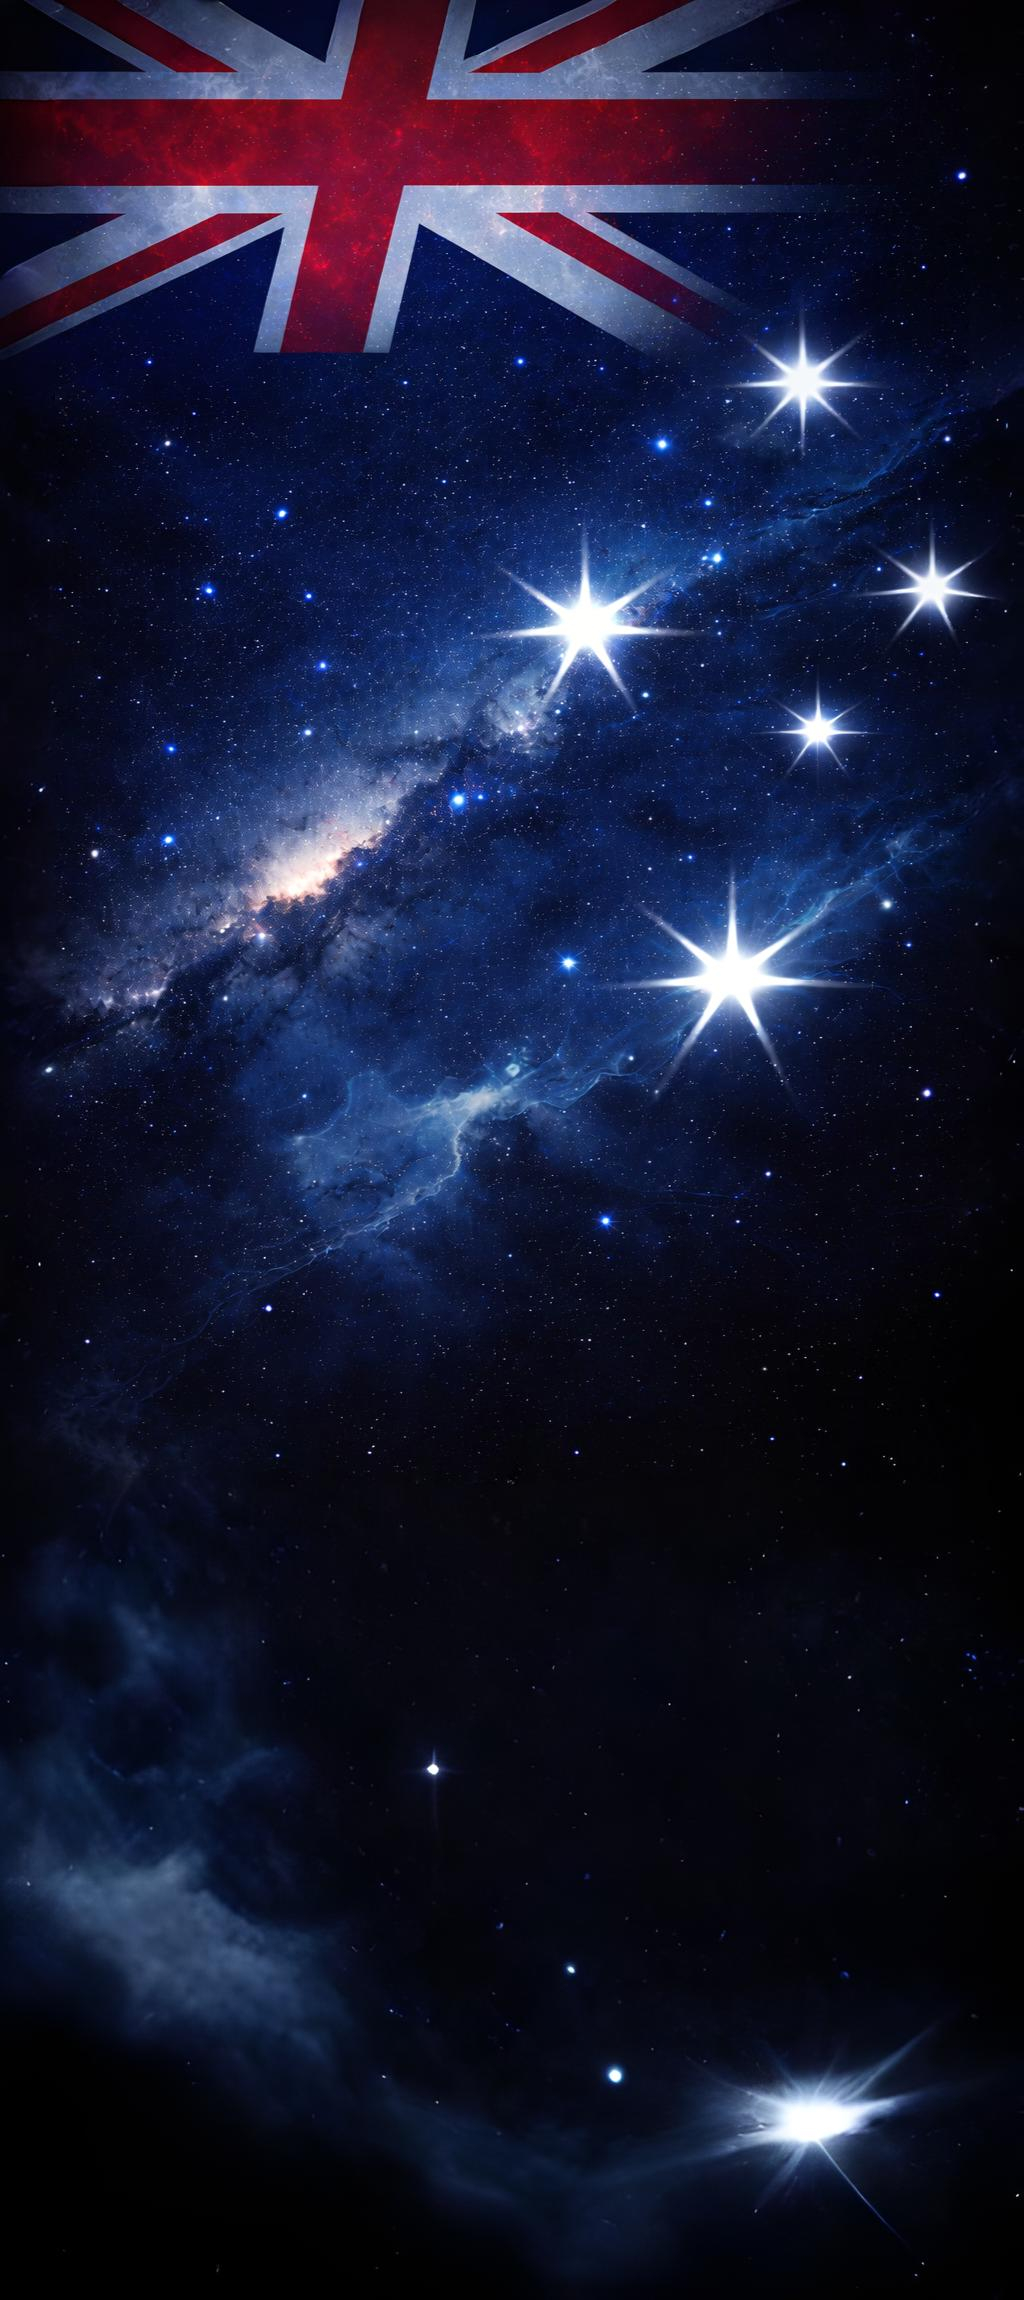
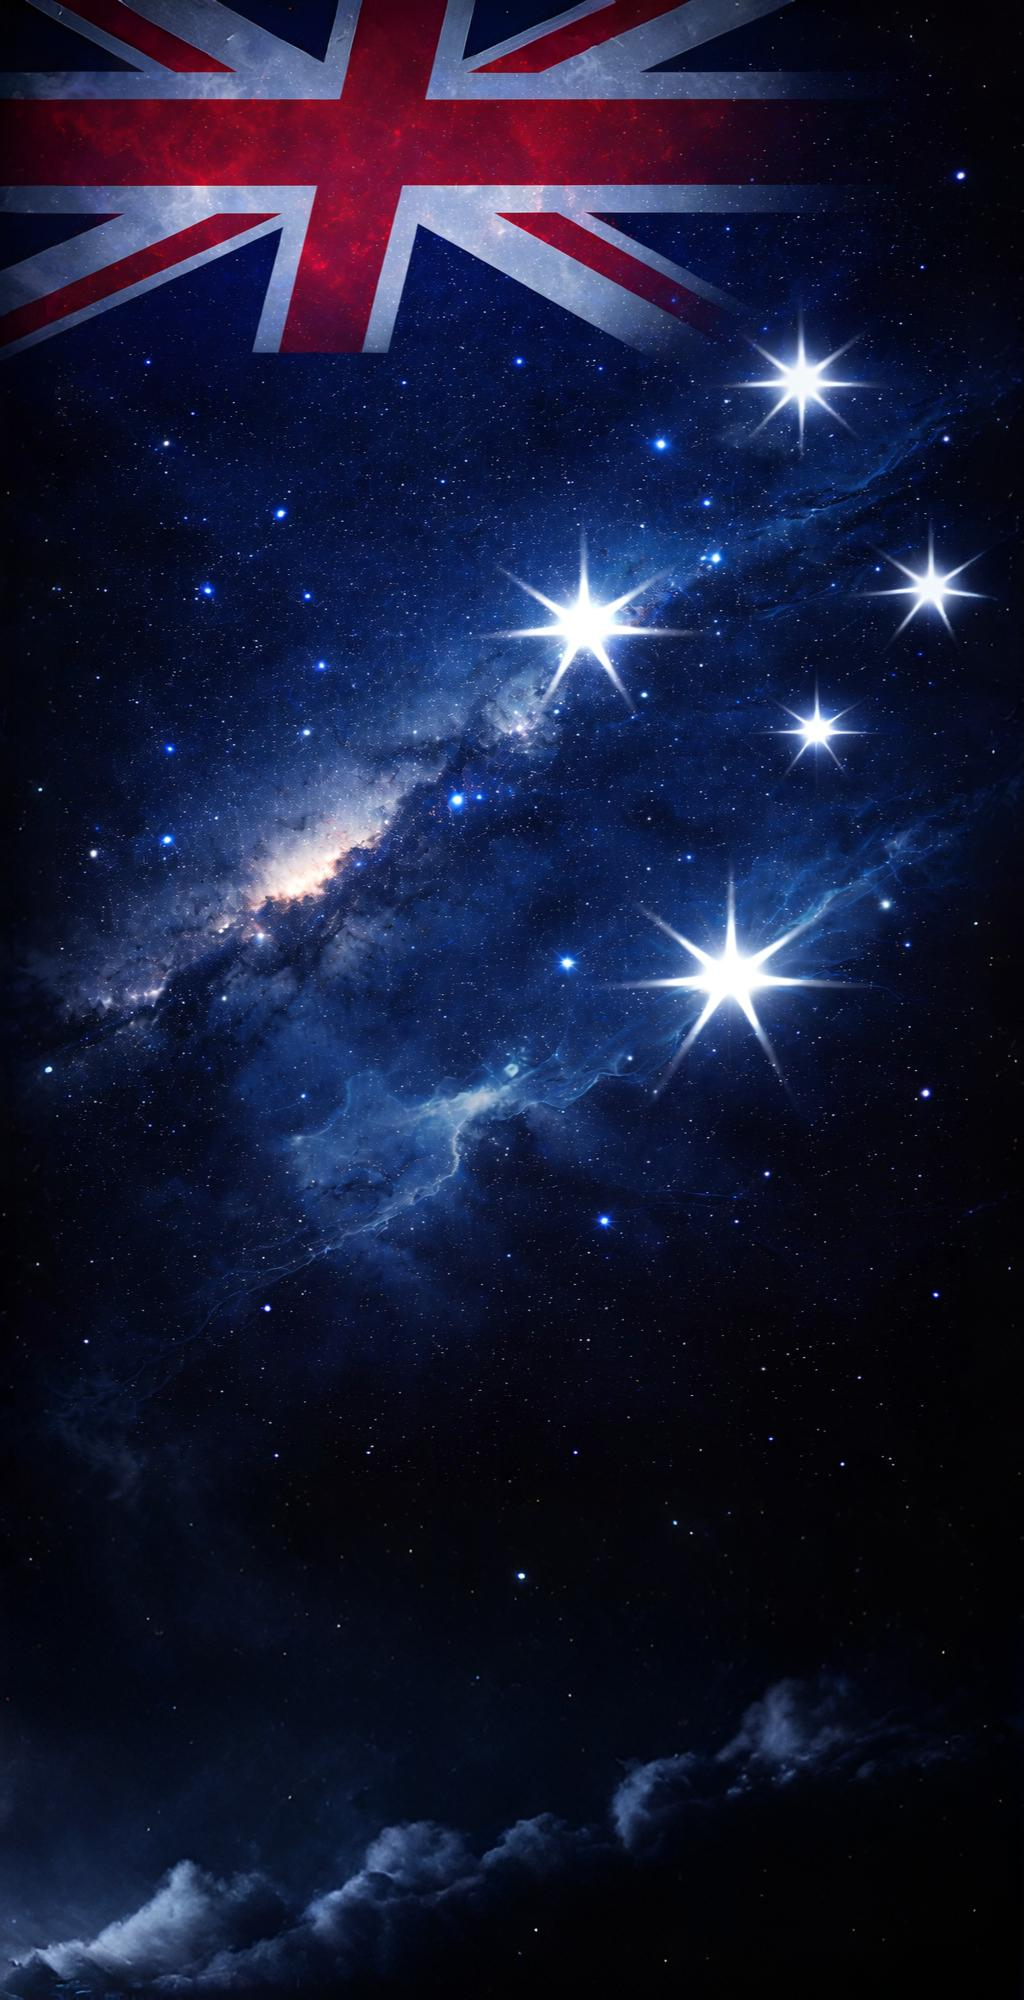
feat: bring star canvas forward over overlay with stronger twinkle

diff --git a/style.css b/style.css
@@ -27,11 +27,20 @@ body::before {
   content: "";
   position: fixed;
   inset: 0;
-  z-index: -3;
-  background-image: linear-gradient(160deg, rgba(3, 10, 27, 0.8), rgba(3, 10, 27, 0.6)), url("Branding/background.png?v=20260303-render-cache-bust");
+  z-index: -4;
+  background-image: url("Branding/background.png?v=20260303-render-cache-bust");
   background-size: cover;
   background-position: top center;
   background-repeat: no-repeat;
+}
+
+body::after {
+  content: "";
+  position: fixed;
+  inset: 0;
+  z-index: -2;
+  pointer-events: none;
+  background: linear-gradient(160deg, rgba(3, 10, 27, 0.84), rgba(3, 10, 27, 0.72));
 }
 
 #nebula-canvas {
@@ -39,7 +48,8 @@ body::before {
   inset: 0;
   width: 100%;
   height: 100%;
-  z-index: -2;
+  z-index: -1;
+  opacity: 0.82;
   pointer-events: none;
 }
 
@@ -99,10 +109,14 @@ body::before {
 
 @media (max-width: 700px) {
   body::before {
-    background-image: linear-gradient(160deg, rgba(3, 10, 27, 0.62), rgba(3, 10, 27, 0.4)), url("Branding/background-mobile.jpg?v=20260303-render-cache-bust");
+    background-image: url("Branding/background-mobile.jpg?v=20260303-render-cache-bust");
     background-position: center top;
     background-size: 100% auto;
     background-repeat: no-repeat;
+  }
+
+  body::after {
+    background: linear-gradient(160deg, rgba(3, 10, 27, 0.88), rgba(3, 10, 27, 0.76));
   }
 
   body {
@@ -114,6 +128,6 @@ body::before {
   }
 
   #nebula-canvas {
-    opacity: 0.74;
+    opacity: 0.72;
   }
 }

diff --git a/script.js b/script.js
@@ -11,6 +11,8 @@ const stars = Array.from({ length: 70 }, () => ({
   r: Math.random() * 1.7 + 0.4,
   o: Math.random() * 0.6 + 0.2,
   v: Math.random() * 0.0007 + 0.0002,
+  twinklePhase: Math.random() * Math.PI * 2,
+  twinkleSpeed: Math.random() * 0.03 + 0.012,
 }));
 
 function resizeCanvas() {
@@ -27,10 +29,15 @@ function drawStars() {
   stars.forEach((star) => {
     star.y += star.v;
     if (star.y > 1.02) star.y = -0.02;
+    star.twinklePhase += star.twinkleSpeed;
+
+    const twinkleWave = (Math.sin(star.twinklePhase) + 1) / 2;
+    const alpha = Math.min(1, star.o * (0.45 + twinkleWave * 1.7));
+    const radius = star.r * (0.8 + twinkleWave * 0.95);
 
     ctx.beginPath();
-    ctx.arc(star.x * canvas.width, star.y * canvas.height, star.r, 0, Math.PI * 2);
-    ctx.fillStyle = `rgba(183, 222, 255, ${star.o})`;
+    ctx.arc(star.x * canvas.width, star.y * canvas.height, radius, 0, Math.PI * 2);
+    ctx.fillStyle = `rgba(183, 222, 255, ${alpha.toFixed(3)})`;
     ctx.fill();
   });
 

diff --git a/index.html b/index.html
@@ -7,7 +7,7 @@
   <link rel="preconnect" href="https://fonts.googleapis.com" />
   <link rel="preconnect" href="https://fonts.gstatic.com" crossorigin />
   <link href="https://fonts.googleapis.com/css2?family=Outfit:wght@400;600;700&family=Syne:wght@700;800&display=swap" rel="stylesheet" />
-  <link rel="stylesheet" href="style.css?v=20260303-render-cache-bust" />
+  <link rel="stylesheet" href="style.css?v=20260303-stars-in-front" />
 </head>
 <body>
   <canvas id="nebula-canvas" aria-hidden="true"></canvas>
@@ -22,6 +22,6 @@
     <p id="tagline" class="tagline" aria-live="polite"></p>
   </main>
 
-  <script src="script.js?v=20260303-render-cache-bust"></script>
+  <script src="script.js?v=20260303-stars-in-front"></script>
 </body>
 </html>
